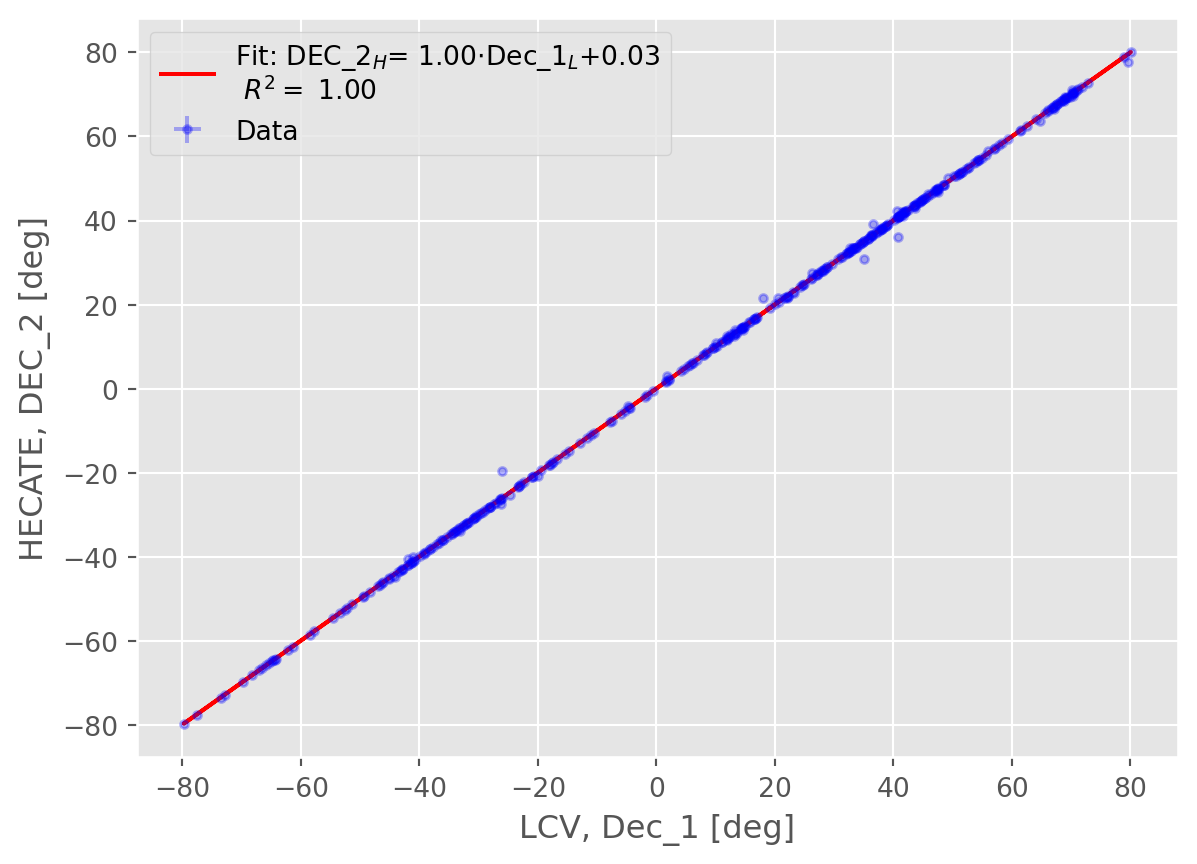
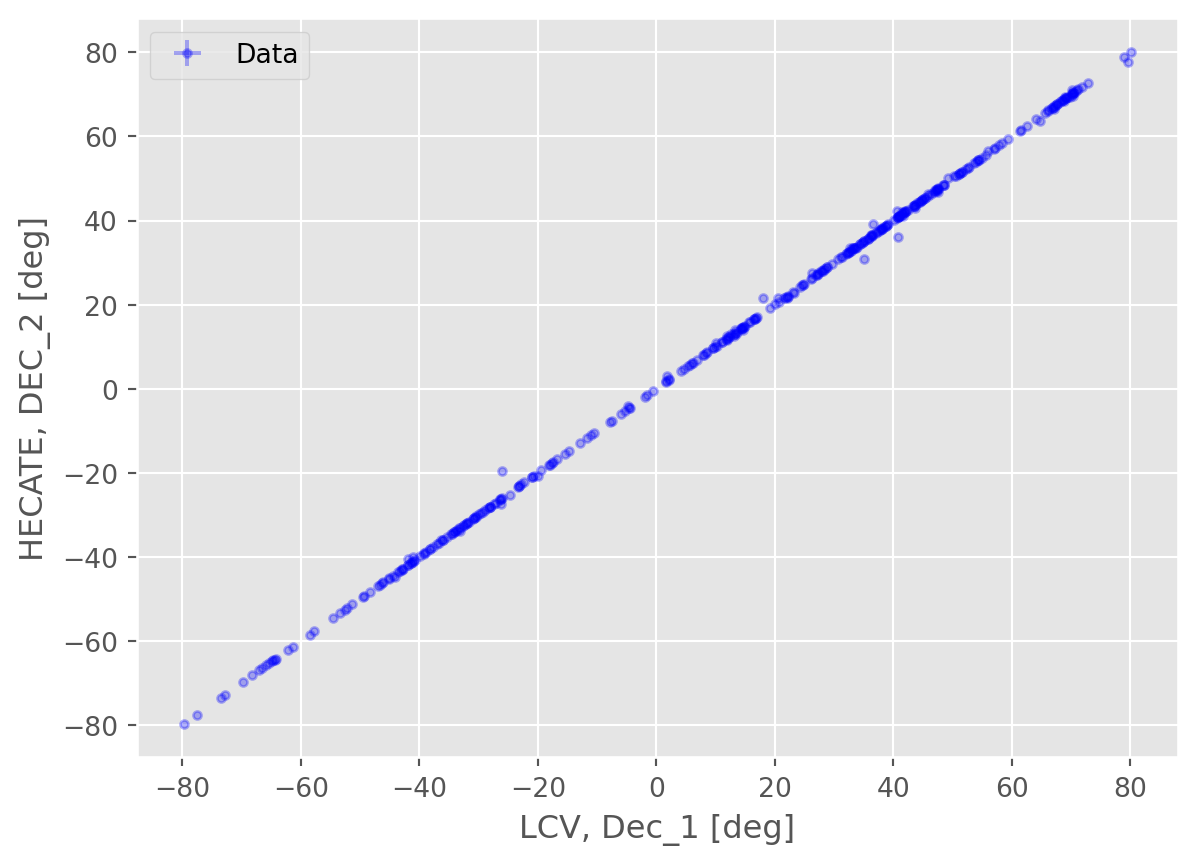
+magn

diff --git a/compare/compare.html b/compare/compare.html
@@ -178,7 +178,7 @@ window.Quarto = {
 <li><u>Slope of the Fitted Line</u>: Should be close to 1 for a 1-1 correlation.<a href="#fn1" class="footnote-ref" id="fnref1" role="doc-noteref"><sup>1</sup></a></li>
 <li><u>Pearson Correlation <span class="math inline">\(\rho\)</span></u>: Measures the strength and direction of the linear relationship between two variables, ranging from -1 to 1. <a href="#fn2" class="footnote-ref" id="fnref2" role="doc-noteref"><sup>2</sup></a></li>
 </ol>
-<div id="f5e7ec91" class="cell" data-execution_count="2">
+<div id="5165f35d" class="cell" data-execution_count="2">
 <div class="sourceCode cell-code" id="cb1"><pre class="sourceCode python code-with-copy"><code class="sourceCode python"><span id="cb1-1"><a href="#cb1-1" aria-hidden="true" tabindex="-1"></a><span class="kw">def</span> compare_data(x, y, unc<span class="op">=</span><span class="va">None</span>):</span>
 <span id="cb1-2"><a href="#cb1-2" aria-hidden="true" tabindex="-1"></a>    <span class="co">"""</span></span>
 <span id="cb1-3"><a href="#cb1-3" aria-hidden="true" tabindex="-1"></a><span class="co">    Performs a linear comparison between two datasets.</span></span>
@@ -214,7 +214,7 @@ window.Quarto = {
 <span id="cb1-33"><a href="#cb1-33" aria-hidden="true" tabindex="-1"></a></span>
 <span id="cb1-34"><a href="#cb1-34" aria-hidden="true" tabindex="-1"></a>        <span class="co"># fit the data with the fitter</span></span>
 <span id="cb1-35"><a href="#cb1-35" aria-hidden="true" tabindex="-1"></a>        fitted_line <span class="op">=</span> fit(line_init, x_data, y_data, weights<span class="op">=</span>w)</span>
-<span id="cb1-36"><a href="#cb1-36" aria-hidden="true" tabindex="-1"></a>        slope <span class="op">=</span> fitted_line.slope.value</span>
+<span id="cb1-36"><a href="#cb1-36" aria-hidden="true" tabindex="-1"></a>        slope <span class="op">=</span> fitted_line[<span class="dv">0</span>].slope.value</span>
 <span id="cb1-37"><a href="#cb1-37" aria-hidden="true" tabindex="-1"></a>        intercept <span class="op">=</span> fitted_line.intercept.value</span>
 <span id="cb1-38"><a href="#cb1-38" aria-hidden="true" tabindex="-1"></a></span>
 <span id="cb1-39"><a href="#cb1-39" aria-hidden="true" tabindex="-1"></a>        <span class="co"># Predict values using the fitted model</span></span>
@@ -240,7 +240,7 @@ window.Quarto = {
 <ol start="4" type="1">
 <li><u>Scatter plots</u>: Scatter plots are essential for visually assessing the relationship between two datasets, identifying correlations, trends, and outliers, and evaluating the fit of linear models.</li>
 </ol>
-<div id="3580d28f" class="cell" data-execution_count="3">
+<div id="97bbbd0e" class="cell" data-execution_count="3">
 <div class="sourceCode cell-code" id="cb2"><pre class="sourceCode python code-with-copy"><code class="sourceCode python"><span id="cb2-1"><a href="#cb2-1" aria-hidden="true" tabindex="-1"></a><span class="kw">def</span> scatter_plot(x, y, xerr <span class="op">=</span> <span class="va">None</span>, yerr <span class="op">=</span> <span class="va">None</span>):</span>
 <span id="cb2-2"><a href="#cb2-2" aria-hidden="true" tabindex="-1"></a>    <span class="co">"""</span></span>
 <span id="cb2-3"><a href="#cb2-3" aria-hidden="true" tabindex="-1"></a><span class="co">    Generates a scatter plot of two datasets with optional error bars, fits a linear model to the data, </span></span>
@@ -323,23 +323,23 @@ window.Quarto = {
 <td style="text-align: center;">Ra_1</td>
 <td style="text-align: center;">RA_2</td>
 <td style="text-align: center;">Right Ascension</td>
-<td style="text-align: center;">0.976</td>
+<td style="text-align: center;">0</td>
 </tr>
 <tr class="even">
 <td style="text-align: center;">Dec_1</td>
 <td style="text-align: center;">DEC_2</td>
 <td style="text-align: center;">Declination</td>
-<td style="text-align: center;">1.0</td>
+<td style="text-align: center;">0</td>
 </tr>
 <tr class="odd">
 <td style="text-align: center;">Dis</td>
 <td style="text-align: center;">D</td>
 <td style="text-align: center;">Distance</td>
-<td style="text-align: center;">1.0</td>
+<td style="text-align: center;">0</td>
 </tr>
 </tbody>
 </table>
-<div id="f57eb99c" class="cell" data-execution_count="5">
+<div id="6af4c13b" class="cell" data-execution_count="5">
 <div class="sourceCode cell-code" id="cb3"><pre class="sourceCode python code-with-copy"><code class="sourceCode python"><span id="cb3-1"><a href="#cb3-1" aria-hidden="true" tabindex="-1"></a>scatter_plot(dt[<span class="st">"Ra_1"</span>], dt[<span class="st">"RA_2"</span>]), scatter_plot(dt[<span class="st">"Dec_1"</span>], dt[<span class="st">"DEC_2"</span>]), scatter_plot(dt[<span class="st">"Dis"</span>], dt[<span class="st">"D"</span>])</span></code><button title="Copy to Clipboard" class="code-copy-button"><i class="bi"></i></button></pre></div>
 <div class="cell-output cell-output-display">
 <div>
@@ -365,7 +365,7 @@ window.Quarto = {
 </div>
 </div>
 <div id="tabset-1-2" class="tab-pane" role="tabpanel" aria-labelledby="tabset-1-2-tab">
-<div id="a8e24149" class="cell" data-execution_count="6">
+<div id="9e5784a4" class="cell" data-execution_count="6">
 <div class="sourceCode cell-code" id="cb4"><pre class="sourceCode python code-with-copy"><code class="sourceCode python"><span id="cb4-1"><a href="#cb4-1" aria-hidden="true" tabindex="-1"></a>rvel_corr <span class="op">=</span> <span class="bu">round</span>(compare_data(dt[<span class="st">"RVel"</span>],dt[<span class="st">"V"</span>])[<span class="dv">3</span>],<span class="dv">3</span>)</span>
 <span id="cb4-2"><a href="#cb4-2" aria-hidden="true" tabindex="-1"></a>rvel_corr_v <span class="op">=</span> <span class="bu">round</span>(compare_data(dt[<span class="st">"RVel"</span>],dt[<span class="st">"V_VIR"</span>])[<span class="dv">3</span>],<span class="dv">3</span>)</span>
 <span id="cb4-3"><a href="#cb4-3" aria-hidden="true" tabindex="-1"></a>vlg_corr <span class="op">=</span> <span class="bu">round</span>(compare_data(dt[<span class="st">"VLG"</span>],dt[<span class="st">"V"</span>])[<span class="dv">3</span>],<span class="dv">3</span>)</span>
@@ -393,23 +393,23 @@ window.Quarto = {
 <td style="text-align: center;">RVel</td>
 <td style="text-align: center;">V/V_VIR (with errors)</td>
 <td style="text-align: center;">Heliocentric radial velocity</td>
-<td style="text-align: center;">(0.897, 0.775)</td>
+<td style="text-align: center;">(0, 0)</td>
 </tr>
 <tr class="even">
 <td style="text-align: center;">VLG</td>
 <td style="text-align: center;">V/V_VIR (with errors)</td>
 <td style="text-align: center;">Radial velocity</td>
-<td style="text-align: center;">(0.819, 0.816)</td>
+<td style="text-align: center;">(0, 0)</td>
 </tr>
 <tr class="odd">
 <td style="text-align: center;">cz (with errors)</td>
 <td style="text-align: center;">V/V_VIR (with errors)</td>
 <td style="text-align: center;">Heliocentric velocity</td>
-<td style="text-align: center;">(0.899, 0.774)</td>
+<td style="text-align: center;">(0, 0)</td>
 </tr>
 </tbody>
 </table>
-<div id="3050b2eb" class="cell" data-execution_count="7">
+<div id="0fa3c0f5" class="cell" data-execution_count="7">
 <div class="sourceCode cell-code" id="cb5"><pre class="sourceCode python code-with-copy"><code class="sourceCode python"><span id="cb5-1"><a href="#cb5-1" aria-hidden="true" tabindex="-1"></a>scatter_plot(dt[<span class="st">"RVel"</span>], dt[<span class="st">"V"</span>], yerr <span class="op">=</span> dt[<span class="st">"E_V"</span>])</span></code><button title="Copy to Clipboard" class="code-copy-button"><i class="bi"></i></button></pre></div>
 <div class="cell-output cell-output-display">
 <div>
@@ -421,74 +421,6 @@ window.Quarto = {
 </div>
 </div>
 <div id="tabset-1-3" class="tab-pane" role="tabpanel" aria-labelledby="tabset-1-3-tab">
-<div id="f75b4f09" class="cell" data-execution_count="8">
-<div class="cell-output cell-output-stdout">
-<pre><code> ** On entry to DLASCL parameter number  4 had an illegal value
- ** On entry to DLASCL parameter number  4 had an illegal value
- ** On entry to DLASCL parameter number  4 had an illegal value
- ** On entry to DLASCL parameter number  4 had an illegal value
- ** On entry to DLASCL parameter number  5 had an illegal value
- ** On entry to DLASCL parameter number  4 had an illegal value
- ** On entry to DLASCL parameter number  4 had an illegal value
- ** On entry to DLASCL parameter number  4 had an illegal value
- ** On entry to DLASCL parameter number  4 had an illegal value
- ** On entry to DLASCL parameter number  4 had an illegal value
- ** On entry to DLASCL parameter number  5 had an illegal value
- ** On entry to DLASCL parameter number  4 had an illegal value
- ** On entry to DLASCL parameter number  4 had an illegal value
- ** On entry to DLASCL parameter number  4 had an illegal value
- ** On entry to DLASCL parameter number  4 had an illegal value
- ** On entry to DLASCL parameter number  4 had an illegal value
- ** On entry to DLASCL parameter number  5 had an illegal value
- ** On entry to DLASCL parameter number  4 had an illegal value
- ** On entry to DLASCL parameter number  4 had an illegal value
- ** On entry to DLASCL parameter number  4 had an illegal value
- ** On entry to DLASCL parameter number  4 had an illegal value
- ** On entry to DLASCL parameter number  4 had an illegal value
- ** On entry to DLASCL parameter number  5 had an illegal value
- ** On entry to DLASCL parameter number  4 had an illegal value
- ** On entry to DLASCL parameter number  4 had an illegal value
- ** On entry to DLASCL parameter number  4 had an illegal value
- ** On entry to DLASCL parameter number  4 had an illegal value
- ** On entry to DLASCL parameter number  4 had an illegal value
- ** On entry to DLASCL parameter number  5 had an illegal value
- ** On entry to DLASCL parameter number  4 had an illegal value
- ** On entry to DLASCL parameter number  4 had an illegal value
- ** On entry to DLASCL parameter number  4 had an illegal value
- ** On entry to DLASCL parameter number  4 had an illegal value
- ** On entry to DLASCL parameter number  4 had an illegal value
- ** On entry to DLASCL parameter number  5 had an illegal value
- ** On entry to DLASCL parameter number  4 had an illegal value
- ** On entry to DLASCL parameter number  4 had an illegal value
- ** On entry to DLASCL parameter number  4 had an illegal value
- ** On entry to DLASCL parameter number  4 had an illegal value
- ** On entry to DLASCL parameter number  4 had an illegal value
- ** On entry to DLASCL parameter number  5 had an illegal value
- ** On entry to DLASCL parameter number  4 had an illegal value
- ** On entry to DLASCL parameter number  4 had an illegal value
- ** On entry to DLASCL parameter number  4 had an illegal value
- ** On entry to DLASCL parameter number  4 had an illegal value
- ** On entry to DLASCL parameter number  4 had an illegal value
- ** On entry to DLASCL parameter number  5 had an illegal value
- ** On entry to DLASCL parameter number  4 had an illegal value
- ** On entry to DLASCL parameter number  4 had an illegal value
- ** On entry to DLASCL parameter number  4 had an illegal value
- ** On entry to DLASCL parameter number  4 had an illegal value
- ** On entry to DLASCL parameter number  4 had an illegal value
- ** On entry to DLASCL parameter number  5 had an illegal value
- ** On entry to DLASCL parameter number  4 had an illegal value
- ** On entry to DLASCL parameter number  4 had an illegal value
- ** On entry to DLASCL parameter number  4 had an illegal value
- ** On entry to DLASCL parameter number  4 had an illegal value
- ** On entry to DLASCL parameter number  4 had an illegal value
- ** On entry to DLASCL parameter number  5 had an illegal value
- ** On entry to DLASCL parameter number  4 had an illegal value
- ** On entry to DLASCL parameter number  4 had an illegal value
- ** On entry to DLASCL parameter number  4 had an illegal value
- ** On entry to DLASCL parameter number  4 had an illegal value
- ** On entry to DLASCL parameter number  4 had an illegal value</code></pre>
-</div>
-</div>
 <table class="table">
 <colgroup>
 <col style="width: 23%">
@@ -509,13 +441,13 @@ window.Quarto = {
 <td style="text-align: center;">TType</td>
 <td style="text-align: center;">T (with errors)</td>
 <td style="text-align: center;">Numerical Hubble type following the de Vaucouleurs system</td>
-<td style="text-align: center;">0.6176</td>
+<td style="text-align: center;">0</td>
 </tr>
 <tr class="even">
 <td style="text-align: center;">inc</td>
 <td style="text-align: center;">INCL</td>
 <td style="text-align: center;">Inclination (deg)</td>
-<td style="text-align: center;">0.58</td>
+<td style="text-align: center;">0</td>
 </tr>
 <tr class="odd">
 <td style="text-align: center;">a26_1 (Major)</td>
@@ -526,10 +458,10 @@ window.Quarto = {
 </tbody>
 </table>
 <p>As we can see we don’t have any significant correlation between the Types of galaxies</p>
-<div id="f67885fd" class="cell" data-execution_count="9">
-<div class="sourceCode cell-code" id="cb7"><pre class="sourceCode python code-with-copy"><code class="sourceCode python"><span id="cb7-1"><a href="#cb7-1" aria-hidden="true" tabindex="-1"></a>scatter_plot(dt[<span class="st">"TType"</span>], dt[<span class="st">"T"</span>], yerr <span class="op">=</span> dt[<span class="st">"E_T"</span>])</span>
-<span id="cb7-2"><a href="#cb7-2" aria-hidden="true" tabindex="-1"></a>scatter_plot(dt[<span class="st">"inc"</span>], dt[<span class="st">"INCL"</span>], yerr <span class="op">=</span> dt[<span class="st">"E_V"</span>])</span>
-<span id="cb7-3"><a href="#cb7-3" aria-hidden="true" tabindex="-1"></a>scatter_plot(dt[<span class="st">"a26_1"</span>], dt[<span class="st">"A26_1a"</span>], yerr <span class="op">=</span> dt[<span class="st">"E_V"</span>])</span></code><button title="Copy to Clipboard" class="code-copy-button"><i class="bi"></i></button></pre></div>
+<div id="a95dc97f" class="cell" data-execution_count="9">
+<div class="sourceCode cell-code" id="cb6"><pre class="sourceCode python code-with-copy"><code class="sourceCode python"><span id="cb6-1"><a href="#cb6-1" aria-hidden="true" tabindex="-1"></a>scatter_plot(dt[<span class="st">"TType"</span>], dt[<span class="st">"T"</span>], yerr <span class="op">=</span> dt[<span class="st">"E_T"</span>])</span>
+<span id="cb6-2"><a href="#cb6-2" aria-hidden="true" tabindex="-1"></a>scatter_plot(dt[<span class="st">"inc"</span>], dt[<span class="st">"INCL"</span>], yerr <span class="op">=</span> dt[<span class="st">"E_V"</span>])</span>
+<span id="cb6-3"><a href="#cb6-3" aria-hidden="true" tabindex="-1"></a>scatter_plot(dt[<span class="st">"a26_1"</span>], dt[<span class="st">"A26_1a"</span>], yerr <span class="op">=</span> dt[<span class="st">"E_V"</span>])</span></code><button title="Copy to Clipboard" class="code-copy-button"><i class="bi"></i></button></pre></div>
 <div class="cell-output cell-output-display">
 <div>
 <figure class="figure">
@@ -573,8 +505,8 @@ window.Quarto = {
 </tr>
 </tbody>
 </table>
-<div id="04611794" class="cell" data-execution_count="11">
-<div class="sourceCode cell-code" id="cb8"><pre class="sourceCode python code-with-copy"><code class="sourceCode python"><span id="cb8-1"><a href="#cb8-1" aria-hidden="true" tabindex="-1"></a>scatter_plot(dt[<span class="st">"logKLum"</span>], dt[<span class="st">"logL_K"</span>])</span></code><button title="Copy to Clipboard" class="code-copy-button"><i class="bi"></i></button></pre></div>
+<div id="5c2d3554" class="cell" data-execution_count="11">
+<div class="sourceCode cell-code" id="cb7"><pre class="sourceCode python code-with-copy"><code class="sourceCode python"><span id="cb7-1"><a href="#cb7-1" aria-hidden="true" tabindex="-1"></a>scatter_plot(dt[<span class="st">"logKLum"</span>], dt[<span class="st">"logL_K"</span>])</span></code><button title="Copy to Clipboard" class="code-copy-button"><i class="bi"></i></button></pre></div>
 <div class="cell-output cell-output-display">
 <div>
 <figure class="figure">
@@ -586,11 +518,18 @@ window.Quarto = {
 </div>
 <div id="tabset-1-5" class="tab-pane" role="tabpanel" aria-labelledby="tabset-1-5-tab">
 <table class="table">
+<colgroup>
+<col style="width: 29%">
+<col style="width: 11%">
+<col style="width: 18%">
+<col style="width: 41%">
+</colgroup>
 <thead>
 <tr class="header">
 <th style="text-align: center;">LCV</th>
 <th style="text-align: center;">HECATE</th>
 <th style="text-align: center;">Description</th>
+<th style="text-align: center;">Pearson Correlation [-1,1]</th>
 </tr>
 </thead>
 <tbody>
@@ -598,19 +537,34 @@ window.Quarto = {
 <td style="text-align: center;">mag_B (with errors)</td>
 <td style="text-align: center;">BT (with errors)</td>
 <td style="text-align: center;"></td>
+<td style="text-align: center;">0</td>
 </tr>
 <tr class="even">
 <td style="text-align: center;">Kmag</td>
 <td style="text-align: center;">K</td>
 <td style="text-align: center;">2MASS band magnitude (both)</td>
-</tr>
-<tr class="odd">
-<td style="text-align: center;"></td>
-<td style="text-align: center;"></td>
-<td style="text-align: center;"></td>
+<td style="text-align: center;">0</td>
 </tr>
 </tbody>
 </table>
+<div id="2ee221c5" class="cell" data-execution_count="13">
+<div class="sourceCode cell-code" id="cb8"><pre class="sourceCode python code-with-copy"><code class="sourceCode python"><span id="cb8-1"><a href="#cb8-1" aria-hidden="true" tabindex="-1"></a>scatter_plot(dt[<span class="st">"mag_B"</span>], dt[<span class="st">"BT"</span>], yerr <span class="op">=</span> dt[<span class="st">"E_BT"</span>])</span>
+<span id="cb8-2"><a href="#cb8-2" aria-hidden="true" tabindex="-1"></a>scatter_plot(dt[<span class="st">"Kmag"</span>], dt[<span class="st">"K"</span>], yerr <span class="op">=</span> dt[<span class="st">"E_K"</span>])</span></code><button title="Copy to Clipboard" class="code-copy-button"><i class="bi"></i></button></pre></div>
+<div class="cell-output cell-output-display">
+<div>
+<figure class="figure">
+<p><img src="compare_files/figure-html/cell-14-output-1.png" width="587" height="432" class="figure-img"></p>
+</figure>
+</div>
+</div>
+<div class="cell-output cell-output-display">
+<div>
+<figure class="figure">
+<p><img src="compare_files/figure-html/cell-14-output-2.png" width="587" height="435" class="figure-img"></p>
+</figure>
+</div>
+</div>
+</div>
 </div>
 <div id="tabset-1-6" class="tab-pane" role="tabpanel" aria-labelledby="tabset-1-6-tab">
 <table class="table">
@@ -633,7 +587,7 @@ window.Quarto = {
 <td style="text-align: center;">AB</td>
 <td style="text-align: center;">AG</td>
 <td style="text-align: center;">Galactic extinction/absorption in B band</td>
-<td style="text-align: center;">0.989</td>
+<td style="text-align: center;">0</td>
 </tr>
 <tr class="even">
 <td style="text-align: center;">AB_int</td>
@@ -643,12 +597,12 @@ window.Quarto = {
 </tr>
 </tbody>
 </table>
-<div id="463f05a5" class="cell" data-execution_count="13">
+<div id="c9ff0e4e" class="cell" data-execution_count="15">
 <div class="sourceCode cell-code" id="cb9"><pre class="sourceCode python code-with-copy"><code class="sourceCode python"><span id="cb9-1"><a href="#cb9-1" aria-hidden="true" tabindex="-1"></a>scatter_plot(dt[<span class="st">"AB"</span>], dt[<span class="st">"AG"</span>])<span class="co">#, scatter_plot(dt["AB_int"], dt["AI"])</span></span></code><button title="Copy to Clipboard" class="code-copy-button"><i class="bi"></i></button></pre></div>
 <div class="cell-output cell-output-display">
 <div>
 <figure class="figure">
-<p><img src="compare_files/figure-html/cell-14-output-1.png" width="587" height="432" class="figure-img"></p>
+<p><img src="compare_files/figure-html/cell-16-output-1.png" width="587" height="432" class="figure-img"></p>
 </figure>
 </div>
 </div>
